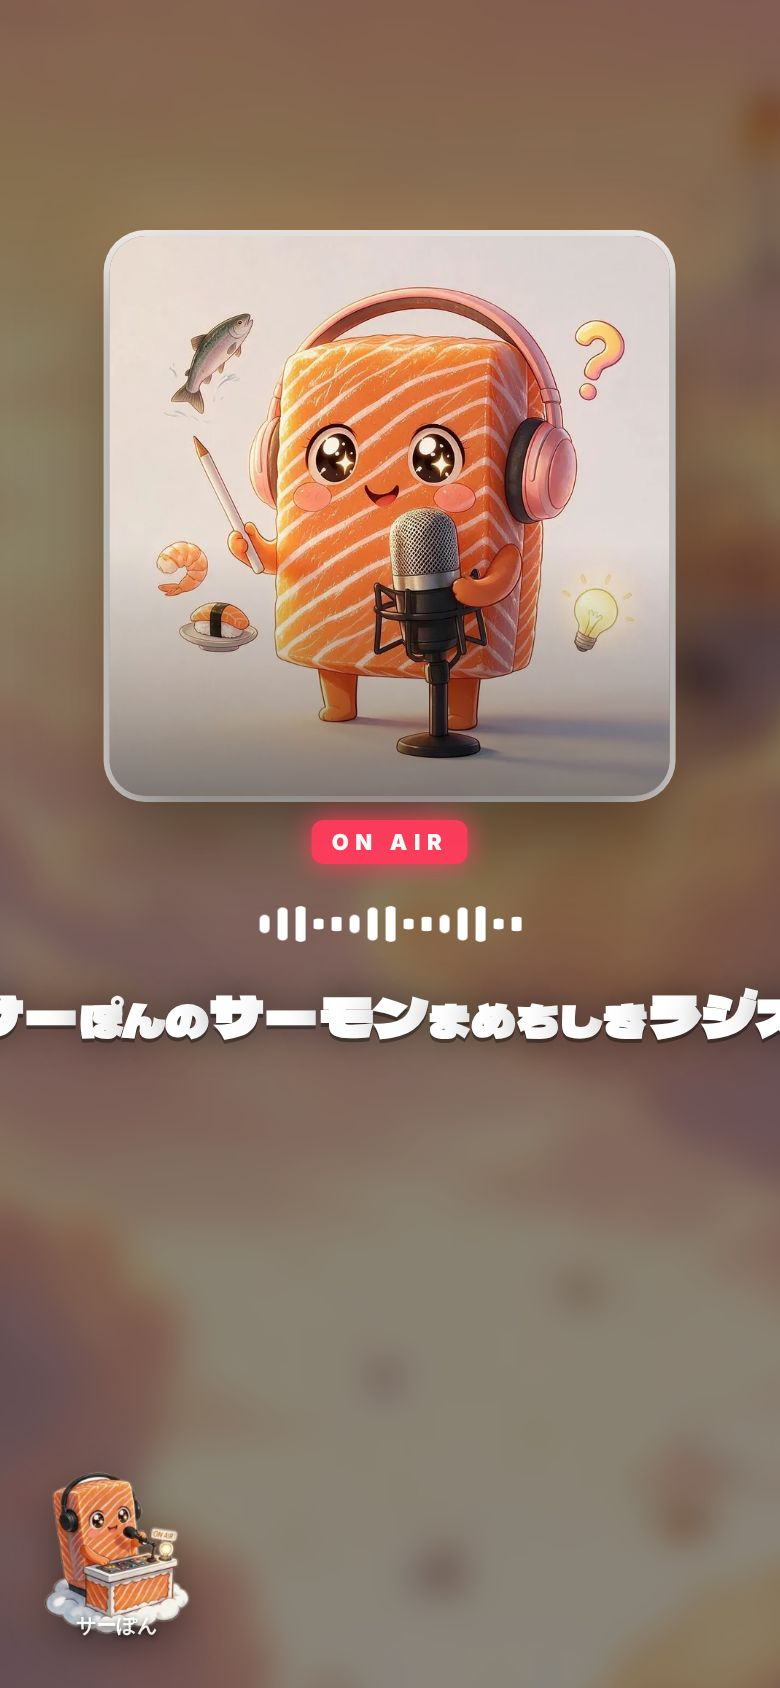
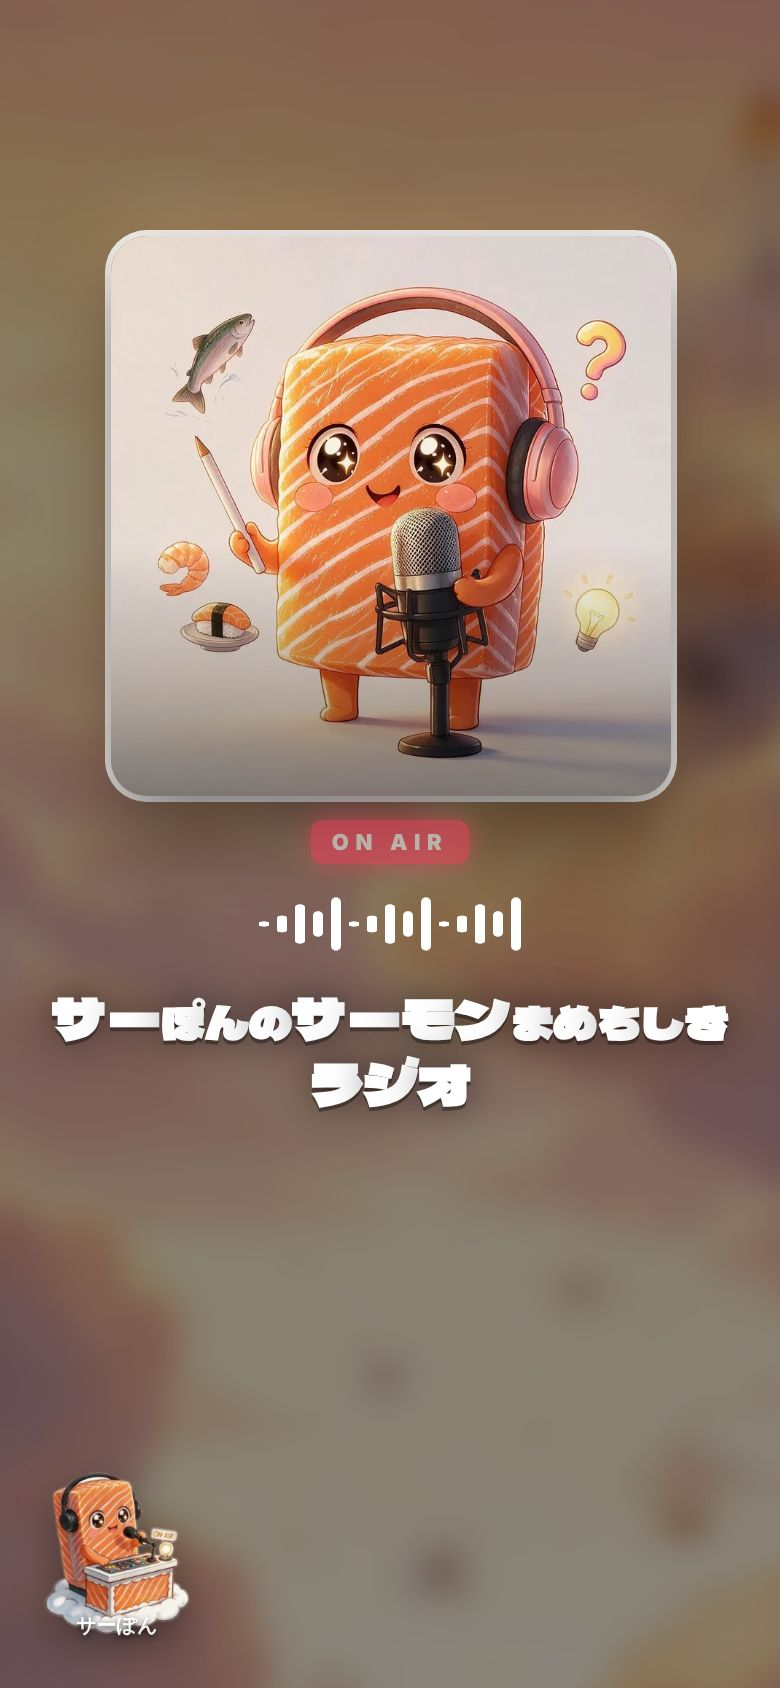
Planet docs and screenshots for the cast follow-ups
Claude-Session: https://claude.ai/code/session_01VLiVxXYEkJP9Xt5cBFE8CF

diff --git a/docs/planets.md b/docs/planets.md
@@ -157,15 +157,15 @@ API は `apps/api/src/planets/planet-works.service.ts`・`continents.service.ts`
 - **投稿（見本ではなく本物）**：スシモン7体・住人11体・KIMORIN⭐ の19人が、8惑星に1つずつ（19×8＝152作品）。言葉は `apps/web/lib/planetTemplate/castWorks.json`（sushi.json・res.json・試作の SAPON／SAPLY から1字も変えずに写す）、音と絵は `apps/web/public/planets/cast/<key>/`（音は試作の mp3 をそのまま＝M-R344 の声、絵は webp 768px。合わせて約22MB）。取り込みは `python3 scripts/planet-home/cast-works.py <物語のブランチを取り出したフォルダ>`（声を作り直したら、同じコマンドで入れかえる）。決まりは `lib/planetTemplate/castWorks.ts`（`castWorks.test.ts`）。
   - キャラは会員ではない：作品はどの表にも入れない（DB・API・backfill なし）。ホームには `cast-<key>-<星>` という id の作品として出る（`demo`：〔推す〕〔外す〕〔通報〕なし、API に何も聞かない）。
   - **MIKIE⭐DRILL は作品がまだ無い**（物語の部屋が作っていない）ので、オーダーのあとも、作品ができるまでホームに来ない。
-  - **KIMORIN⭐ の音は、まだ前の声**（「少年2」）。物語の部屋の答え（2026-11-28）：KIMORIN の投稿は本番の KIMORIN_VOICE（Fish 84b27f575dba40e4bc7cabe20ac11b0f、半音下げ、0.85倍速）。res.json の ID は直ったが、mp3 は作り直されていない → 確認表の4番（声）で作り直したものを入れかえる。
-  - 開き方：土星＝ひとこと＋本人の声。木星＝アート＋題（タップと同時に題を本人の声で）。水星＝曲・ジャケット・曲名の読み上げ・歌詞（時間つき）。火星＝スシモンは3秒の動画がくり返し＋曲、住人と KIMORIN はアートがゆっくり動く＋曲（閉じるまで。▶では曲の終わりまで）。金星＝豆知識ラジオ（スシモンはラジオの絵、ほかはアート）。天王星＝グッズの絵そのもの＋本人の声（マグはカップの音も）。冥王星＝絵本。海王星＝タップのゲーム＋本人の声でゲーム名。
+  - **KIMORIN⭐ の音は KIMORIN の声**（本番の KIMORIN_VOICE。物語のブランチ f943f6f2 で作り直された mp3 を `cast-works.py` で入れかえた。res.json の `mikie` は音のフォルダがまだ無いので飛ばす）。
+  - 開き方：土星＝ひとこと＋本人の声。木星＝アート＋題（タップと同時に題を本人の声で）。水星＝曲・ジャケット・曲名の読み上げ・歌詞（時間つき）。火星＝スシモンは短い動画がつなぎ目なくくり返し＋曲（物語の3秒の動画は、くり返す所で光・太陽・カニのはさみが跳んでいた（ふつうの1コマの約3倍）→ 取りこむ時に最後の8コマを最初の8コマへ重ねてつなぎ、2.67秒・24コマ/秒に。キーフレームだけくっきりするのも継ぎ目に見えたので画質をそろえて作る：`scripts/planet-home/mvloop.py`。ブラウザで、くり返す前後のコマの差がふだんの1コマの差と同じことを確かめた）、住人と KIMORIN はアートがゆっくり動く＋曲（閉じるまで。▶では曲の終わりまで）。金星＝豆知識ラジオ（スシモンはラジオの絵、ほかはアート）。天王星＝グッズの絵そのもの＋本人の声（マグはカップの音も）。冥王星＝絵本。海王星＝タップのゲーム＋本人の声でゲーム名。
   - 声はタップの中で鳴らし始める（`lib/planetTemplate/castAudio.ts`：1つの audio を使い回す。少し遅らせるとスマホで鳴らないため）。
-- **冥王星の絵本**（`components/planetTemplate/cast/PictureBook.tsx`、決まりは `castBook.ts`）：正方形のページ（スシモン6・ほか3）、言葉は下の帯。題→1ページずつ本人の声で読み、読み終わると 1.1 秒で次へめくれる。〔‹〕〔›〕とページの左右の端でもめくれる（右端で次へ）。右下に〔ゆっくり〕〔ふつう〕〔はやい〕（0.8・1・1.3倍、声の高さは変えない、端末に覚える `obolo.book.speed`）。最後まで読んだら（最後で〔›〕でも）本が閉じて飛んでいき、ホームに戻る。▶の中では押せない（5.2秒で次の人へ）。
-- **海王星のゲーム**（`cast/TapGame.tsx`、決まりは `castGame.ts`・`castGame.test.ts`）：7種類ぜんぶ。サーぽん＝タップした所がぷるぷる（WebGL。無い端末は絵がつぶれるだけ）／ガリみ♡＝花びら／えびすけ＝うしろ宙返りのジャンプ／ウニまる＝回る／いかチョロ＝スミ／しゃりお＝お米／かにぶぅ＝タップした所へ横歩き。住人と KIMORIN は res.json の gameKind（6種類のどれか）を自分のちびキャラで。ケース・PRESS START は出さず、開いたらすぐ遊べる。
+- **冥王星の絵本**（`components/planetTemplate/cast/PictureBook.tsx`、決まりは `castBook.ts`）：正方形のページ（スシモン6・ほか3）、言葉は下の帯。題→1ページずつ本人の声で読み、読み終わると 1.1 秒で次へめくれる。〔‹〕〔›〕とページの左右の端でもめくれる（右端で次へ）。右下に〔ゆっくり〕〔ふつう〕〔はやい〕（0.8・1・1.3倍、声の高さは変えない、端末に覚える `obolo.book.speed`）。最後まで読んだら（最後で〔›〕でも）本が閉じて飛んでいき、ホームに戻る。▶の中では押せないが、**最後のページまで読んで**から閉じて飛んでいき、次の作品へ（本だけは5.2秒で切らない。`castReadsToEnd`）。
+- **海王星のゲーム**（`cast/TapGame.tsx`、決まりは `castGame.ts`・`castGame.test.ts`）：7種類ぜんぶ。サーぽん＝タップした所がぷるぷる（WebGL。無い端末は絵がつぶれるだけ）／ガリみ♡＝花びら／えびすけ＝うしろ宙返りのジャンプ／ウニまる＝回る／いかチョロ＝スミ／しゃりお＝お米／かにぶぅ＝タップした所へ横歩き。ゲームの中のキャラ：スシモン7体は参考の絵（`design/mv-art/out/sushi/<key>-ref.jpg`、サーぽんは `salmon-ref2.jpg`）から試作の build.py `cleancut` で白いふちなしに切り抜いた平たいアニメの絵（`cast/<key>/game.webp`。ウニまる・しゃりおは足もとに描かれた灰色の影も抜く `floor_shadow`）。住人と KIMORIN は res.json の gameKind（6種類のどれか）を自分のちびキャラで。ケース・PRESS START は出さず、開いたらすぐ遊べる。
 - **場面ごとの効果音**（M-R337、`sound.ts` の `SCENE_SFX`・`sfx.ts`）：タップ＝木星 羽ばたき（→掛け軸のポッ）・火星 映写機・金星 ラジオのチューニング・天王星 お店のベル・冥王星 本をひらく・海王星 泡（▶で作品が開く時・プロフィールの作品も同じ）。ページ＝紙、本が飛ぶ＝風ときらきら、速さ＝カチッ、♡＝やさしい2音（空の♡。☆は鈴のまま）。ゲームは種類ごとの音。
 - **本当の星の道にキャラが来る**（スイッチを入れた星。`LivePlanetHome`・`withCast`）：会員の本当のフィード（自分の場所・本当のダチ／推し・遠くの知らない人）はそのまま、そのあとに KIMORIN⭐（ダチ）と、その会員が**終えた日**までの推し（`rosterDayOfMember`：その日の物語を終えたら、その日の住人が加わる。旅のあと＝11日目から全員18）。3日目を終える前は、だれも来ない。何も無い人の家は、自分の場所＋キャラ（見本は出さない）。本当のダチ・推しが先（8つの枠に先に入る）、キャラはそのあと。空の「知らない人」は本当の会員だけ。
-- **物語の中のホーム**（`storyCast.ts`）：推しは本物の投稿で来る。台本が名前を出している作品（KIMORIN⭐『プリプリ・ボカン』・「うんち。」・すね毛・『天才の一生』、MONBAN「……今日も、異常なし…。」）は、台本の言葉のまま出す（その人の録音は別の言葉なので、土星では鳴らさない）。
-- **プロフィール**（M-R344）：〔←〕は最初のタッチで戻る（押せる範囲は丸のまわり 14px まで。直後のクリックは下の画面に届かないように1回だけ止める）。2本の指でつまむと、どの星でもホームに戻る（開いていた作品も閉じる。`pinchGoes`）。
+- **物語の中のホーム**（`storyCast.ts`）：招待した人は本物の会員なので、{neo}の場所にはその人の**その星の本当の作品**（いちばん新しいもの、`lib/planetTemplate/inviterWork.ts`：ダチの一覧→`GET /planet-home/<星>/person/<id>`）。その星に作品が無い・まだダチでない・同じ名前のダチが2人・招待なしの時は、その所ごと出さない（見本は出さない）。推しは本物の投稿で来る。台本が名前を出している作品（KIMORIN⭐『プリプリ・ボカン』・「うんち。」・すね毛・『天才の一生』、MONBAN「……今日も、異常なし…。」）は、台本の言葉のまま出す（その人の録音は別の言葉なので、土星では鳴らさない）。
+- **プロフィール**（M-R344）：〔←〕は最初のタッチで戻る（押せる範囲は丸のまわり 14px まで。直後のクリックは下の画面に届かないように1回だけ止める）。本当の原因（物語の試作 fa0a2db0）：閉じて透明になった重なり（空 `.exp`・作品 `.vw`）のボタンが〔←〕の上で押せたままだった → 閉じた／消えていく重なりは中身ごと押せない（ほかに、飛んでいく絵本・消えていく空の作品の下の段・旅立ちで消える島・割れた土星の積もった玉）。2本の指でつまむと、どの星でもホームに戻る（開いていた作品も閉じる。`pinchGoes`）。
 - **8〜10日目の朝**（台本 a2bbf47b）：OBOLON「お前は、ついに、〜を、作れるようになる。」「その魔法を、今日は、教える。」と、Bluena の新しい棚の知らせ（物語・ゲーム・グッズ）。前の画面の版・新しい家の版の両方。`story-sync` 0件。
 - **8〜10日目に物語の中で作るもの**：
   - 10日目のグッズ：本物になる。選ぶ絵は会員の本当のアート（木星のアートがあればそれを並べる）。〔公開する〕で月の工房と同じ無料の作り方（`POST /moon/goods`）→ 天王星へ（`/moon/goods/:id/fly`）。1回だけ（id を端末に覚える）。選んだ絵が本当のアートでない時（字だけ・前の画面の日のステッカー）は作らず、「この端末の中だけ」と出す（`lib/onboarding/storyGoods.ts`）。
@@ -185,11 +185,11 @@ API は `apps/api/src/planets/planet-works.service.ts`・`continents.service.ts`
 **本物のスマホで人が見ること**（iPhone の Safari と Android の Chrome。マナーモードを切って）：
 - どの星でも：その会員の日の推しの数と顔ぶれ（3日目を終えた人 9 … 10日目を終えた人・旅のあと 18、＋KIMORIN⭐）。見本の人がいない。自分の場所をタップ→プロフィール→〔←〕が1回で戻る／2本指でつまんで戻る。▶で1人ずつ来て、■で音が全部止まる。2本指でつまんで空→広げて戻る。星の切り替え（左上のアイコンを横にすべらせる）。
 - **声がタップした瞬間に鳴るか**（いちばん大事。機械では確かめられない）：木星の題、天王星のグッズ、冥王星の題と各ページ、海王星のゲーム名、土星のひとこと、水星の曲名。
-- 土星：コロリンをタップ→割れてひとこと＋声。自分のコロリンがレコードにいる。
+- 土星：コロリンをタップ→割れてひとこと＋声（吹き出しは試作の .bub：幅は画面の62%まで、中央そろえ、行間1.45、話すキャラの上、真ん中は画面の24%〜76%、はみ出す幅の時だけ内へ寄せる `saturn.ts bubbleX`）。自分のコロリンがレコードにいる。
 - 木星：掛け軸、羽ばたきの音、題の字が絵にかぶって読めるか。
 - 水星：曲が鳴る、歌詞が曲に合って出る、曲名の読み上げが曲名と同時。
 - 火星：スシモンの動画がつなぎ目なくくり返す（iPhone で全画面にならない）、住人はアートがゆっくり動く、曲が閉じるまで続く。映写機の音。
-- 金星：ラジオが 0.5 秒後に鳴る、長い題がはみ出していないか（「サーぽんのサーモンまめちしきラジオ」は 390px で左右が切れる：直すなら字を小さくする決まりが要る）。
+- 金星：ラジオが 0.5 秒後に鳴る、長い題が2行に折り返して、はみ出していないか（1行に入らない題は2行、2行でも入らない時だけ字を小さくする：`five.ts titleFit`、13px より小さくしない）。
 - 冥王星：絵本が1ページずつ読まれて自分でめくれる、速さ3つで声の高さが変わらない、右端タップでめくれる、最後に閉じて飛んでホームに戻る。途中で外をタップして閉じると声が止まる。
 - 海王星：7種類のゲームがそれぞれ動く（サーぽんのぷるぷるは WebGL）、指を速く連打しても画面が拡大しない。会員のゲームは PRESS START で遊べて ✕ で戻る。
 - 天王星：グッズの絵、ベルの音（マグはカップの音も）。会員のグッズは見本の合成のまま。
@@ -346,7 +346,7 @@ API は `apps/api/src/planets/planet-works.service.ts`・`continents.service.ts`
 | `GET /planet-home/:planet/person/:id` | 04 土星：その人の過去の作品（プロフィールの2D舞台）。自分＝自分の作品、ダチ・見られる推し＝88時間なしで、ほかの人＝何も返さない（`person: null`）。新しい順・24まで |
 
 ## まだのこと
-- 09：MIKIE⭐DRILL の投稿（無い）、KIMORIN⭐ の投稿の声の作り直し、8日目の本と9日目のゲームを本物の作品にすること、2日目のロケットの映像（音待ち）、金星の長い題。
+- 09：MIKIE⭐DRILL の投稿（無い）、8日目の本と9日目のゲームを本物の作品にすること、2日目のロケットの映像（音待ち）。
 - 公開範囲の初期値（依頼主の答え待ち。今は dachi）。
 - 大陸の絵：水星（0058）・木星（0059）・土星（0060）の90枚、5惑星（0063）の160枚は全部入った。
 - 05 のつづき：グッズ・ケースの絵の {bati} のせりふは仮（物語の部屋で確認）。金星の番組の説明・話した言葉は保存していない（話題は題名だけから）。おためしのデモでは、{bati} が描いたケースの絵は `idb:` のままなので海王星では出ない（本番は https）。
